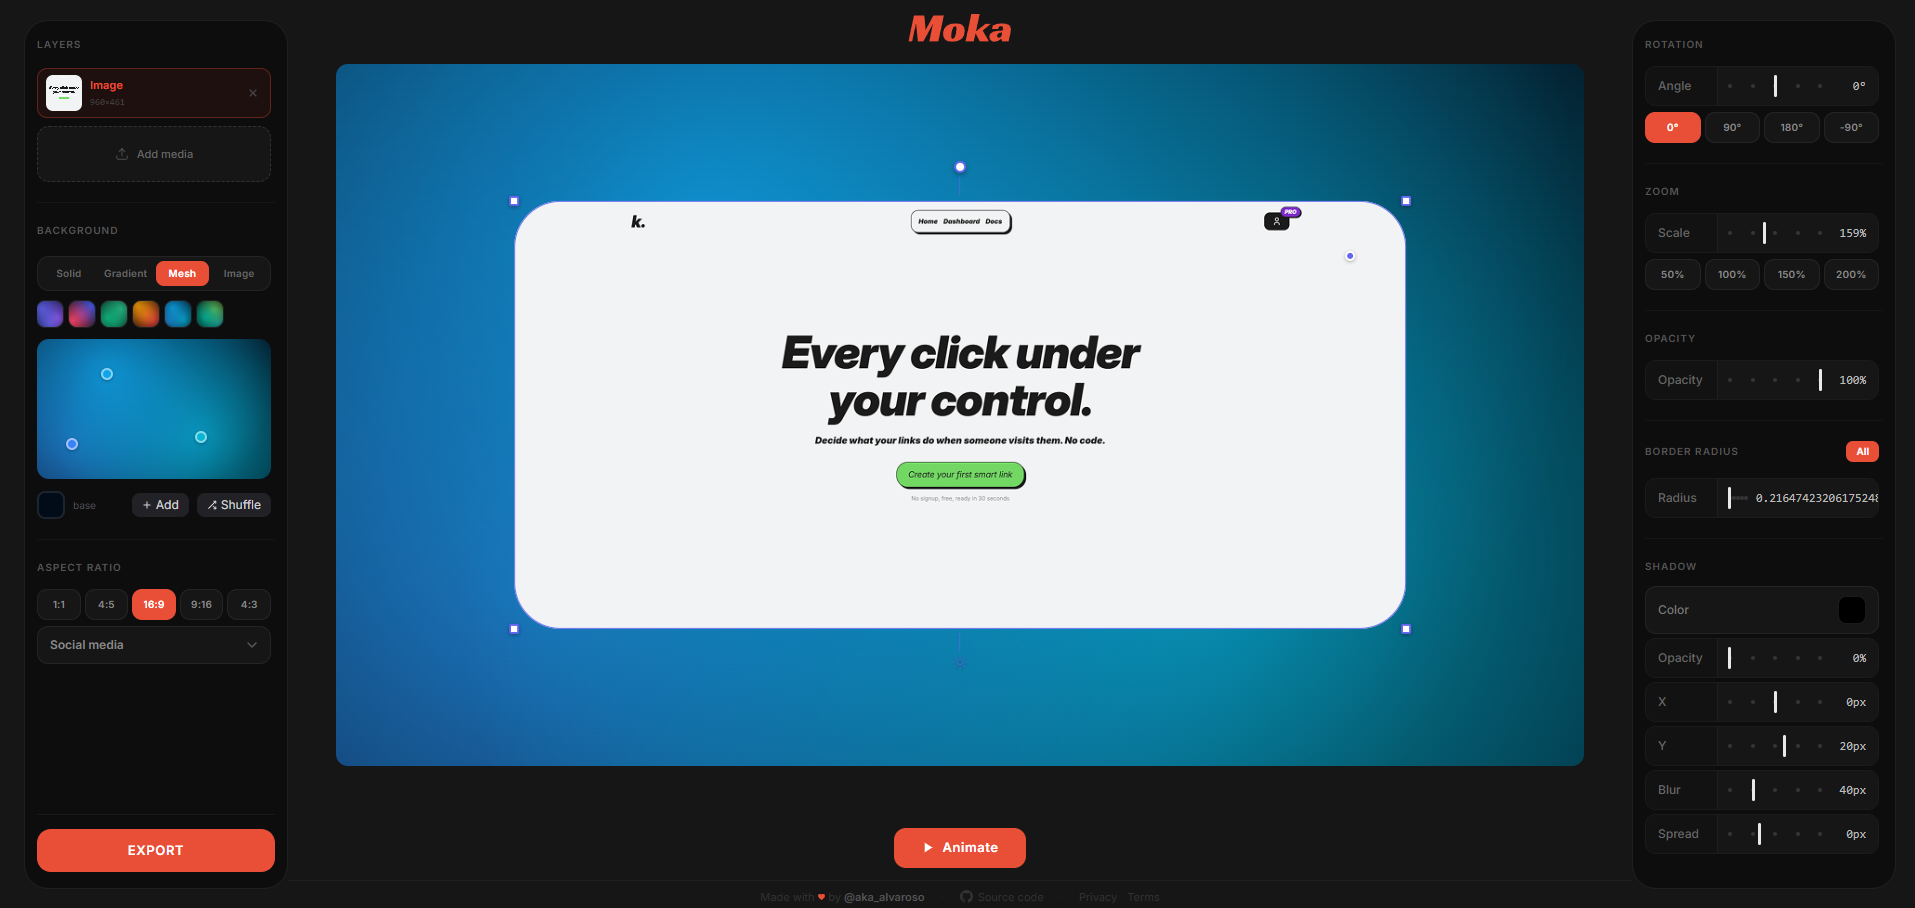
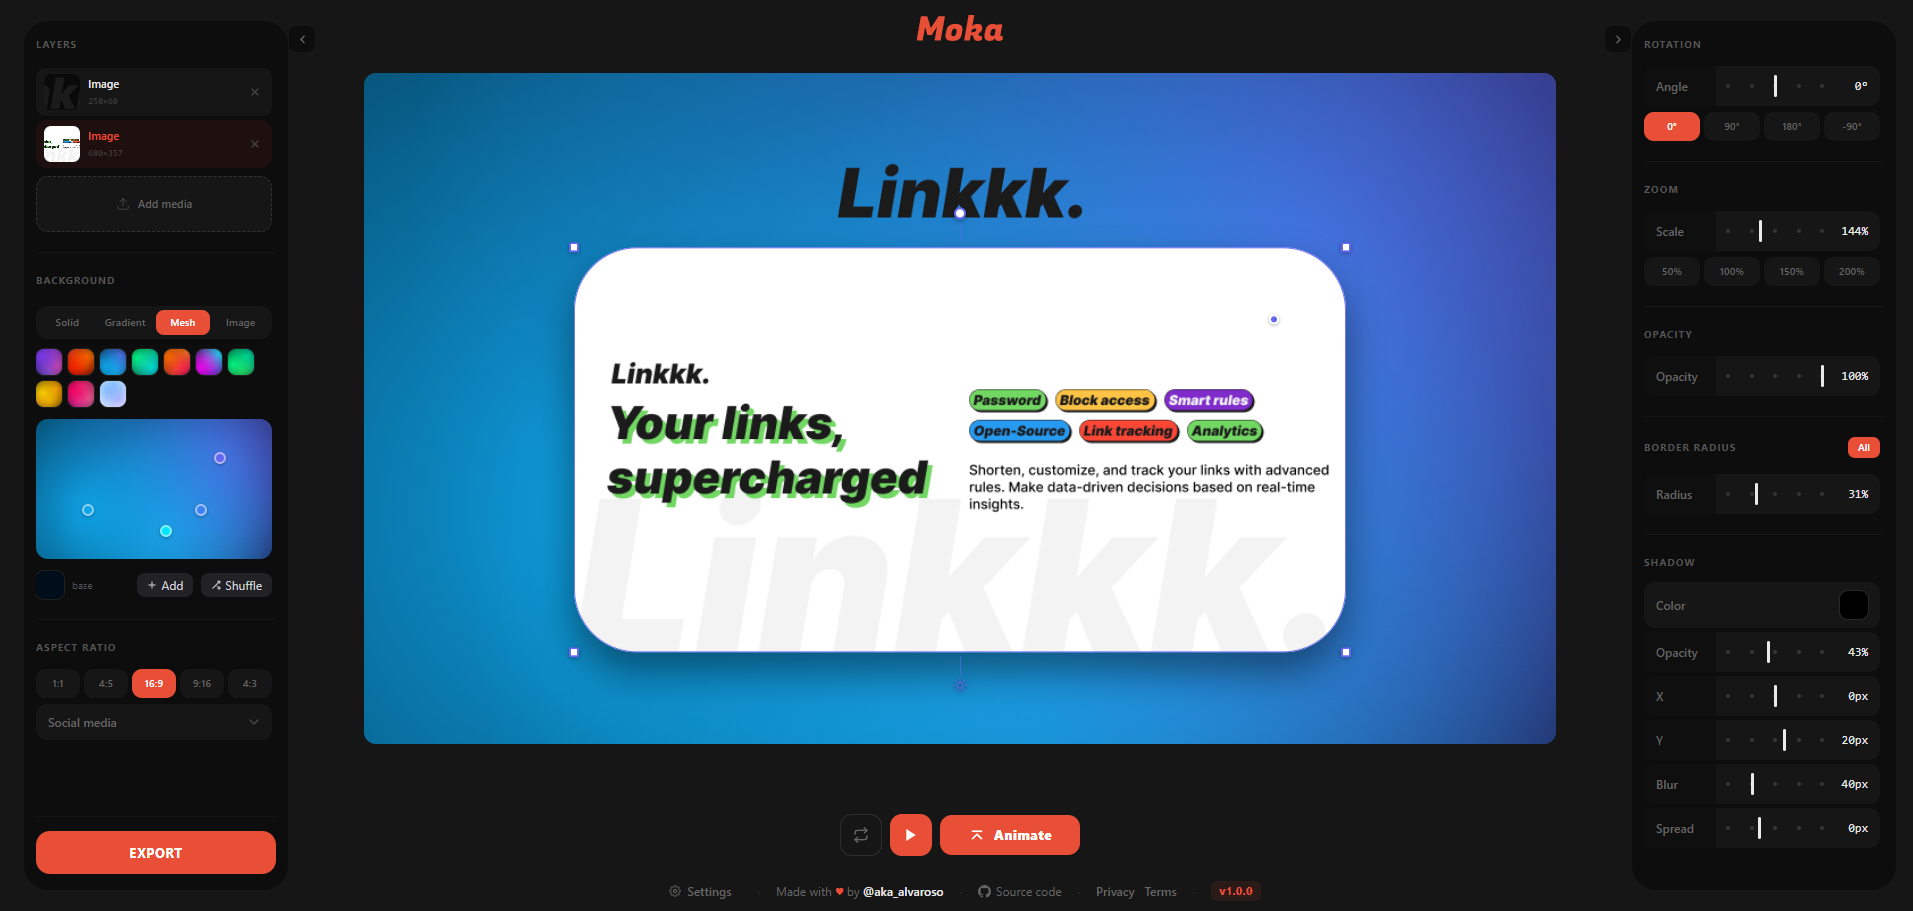
Reorder projects: moka to second place, keypro to last

diff --git a/src/i18n/es.ts b/src/i18n/es.ts
@@ -2,8 +2,8 @@ export const es = {
   meta: {
     title: "Álvaro Barbero — Desarrollador Web",
     description:
-      "Álvaro Barbero — Desarrollo web y ciberseguridad. Software que se lanza, productos que perduran.",
-    ogDescription: "Software que se lanza. Productos que perduran.",
+      "Álvaro Barbero — Desarrollo web y ciberseguridad. Software que funciona, productos que duran.",
+    ogDescription: "Software que funciona. Productos que duran.",
   },
   nav: {
     projects: "Proyectos",
@@ -13,8 +13,8 @@ export const es = {
     langSwitchHref: "/en/",
   },
   hero: {
-    headline1: "Software que se lanza.",
-    headline2: "Productos que perduran.",
+    headline1: "Software que funciona.",
+    headline2: "Productos que duran.",
     ctaWork: "Hablemos",
     ctaSee: "Ver mi trabajo",
   },
@@ -93,23 +93,6 @@ export const es = {
         ],
       },
       {
-        id: "keypro",
-        name: "KeyPro.",
-        description:
-          "Entrenador de mecanografía online con modos multijugador. Compite contra otros, juega en equipos o supérate a ti mismo en varios modos de juego.",
-        href: "https://alvaroso.dev/keypro/",
-        tagline: "Escribe más rápido. Compite en serio.",
-        period: "Sep 2023 – Hoy",
-        why: "Este fue el que lo empezó todo. Antes de KeyPro nunca había tocado Node.js ni React. Construirlo fue cómo aprendí los dos.",
-        features: [
-          "Carreras multijugador en tiempo real",
-          "Modo equipos",
-          "Varios modos de juego y dificultades",
-          "Seguimiento de PPM y precisión",
-          "Ranking global",
-        ],
-      },
-      {
         id: "moka",
         name: "Moka.",
         description:
@@ -124,6 +107,23 @@ export const es = {
           "Exportación de vídeo (mp4)",
           "Soporte para mockup de iPhone",
           "Exportación de alta resolución con un clic",
+        ],
+      },
+      {
+        id: "keypro",
+        name: "KeyPro.",
+        description:
+          "Entrenador de mecanografía online con modos multijugador. Compite contra otros, juega en equipos o supérate a ti mismo en varios modos de juego.",
+        href: "https://alvaroso.dev/keypro/",
+        tagline: "Escribe más rápido. Compite en serio.",
+        period: "Sep 2023 – Hoy",
+        why: "Este fue el que lo empezó todo. Antes de KeyPro nunca había tocado Node.js ni React. Construirlo fue cómo aprendí los dos.",
+        features: [
+          "Carreras multijugador en tiempo real",
+          "Modo equipos",
+          "Varios modos de juego y dificultades",
+          "Seguimiento de PPM y precisión",
+          "Ranking global",
         ],
       },
     ],

diff --git a/src/i18n/en.ts b/src/i18n/en.ts
@@ -92,23 +92,6 @@ export const en = {
         ],
       },
       {
-        id: "keypro",
-        name: "KeyPro.",
-        description:
-          "Online typing trainer with multiplayer modes. Race against others, play in teams, or challenge yourself across multiple game modes.",
-        href: "https://alvaroso.dev/keypro/",
-        tagline: "Type faster. Race smarter.",
-        period: "Sep 2023 – Today",
-        why: "This one started everything. Before KeyPro I'd never touched Node.js or React. Building it was how I learned both.",
-        features: [
-          "Real-time multiplayer races",
-          "Team vs team mode",
-          "Multiple game modes and difficulties",
-          "WPM and accuracy tracking",
-          "Global leaderboard",
-        ],
-      },
-      {
         id: "moka",
         name: "Moka.",
         description:
@@ -123,6 +106,23 @@ export const en = {
           "Video export (mp4)",
           "iPhone mockup support",
           "One-click high-res export",
+        ],
+      },
+      {
+        id: "keypro",
+        name: "KeyPro.",
+        description:
+          "Online typing trainer with multiplayer modes. Race against others, play in teams, or challenge yourself across multiple game modes.",
+        href: "https://alvaroso.dev/keypro/",
+        tagline: "Type faster. Race smarter.",
+        period: "Sep 2023 – Today",
+        why: "This one started everything. Before KeyPro I'd never touched Node.js or React. Building it was how I learned both.",
+        features: [
+          "Real-time multiplayer races",
+          "Team vs team mode",
+          "Multiple game modes and difficulties",
+          "WPM and accuracy tracking",
+          "Global leaderboard",
         ],
       },
     ],